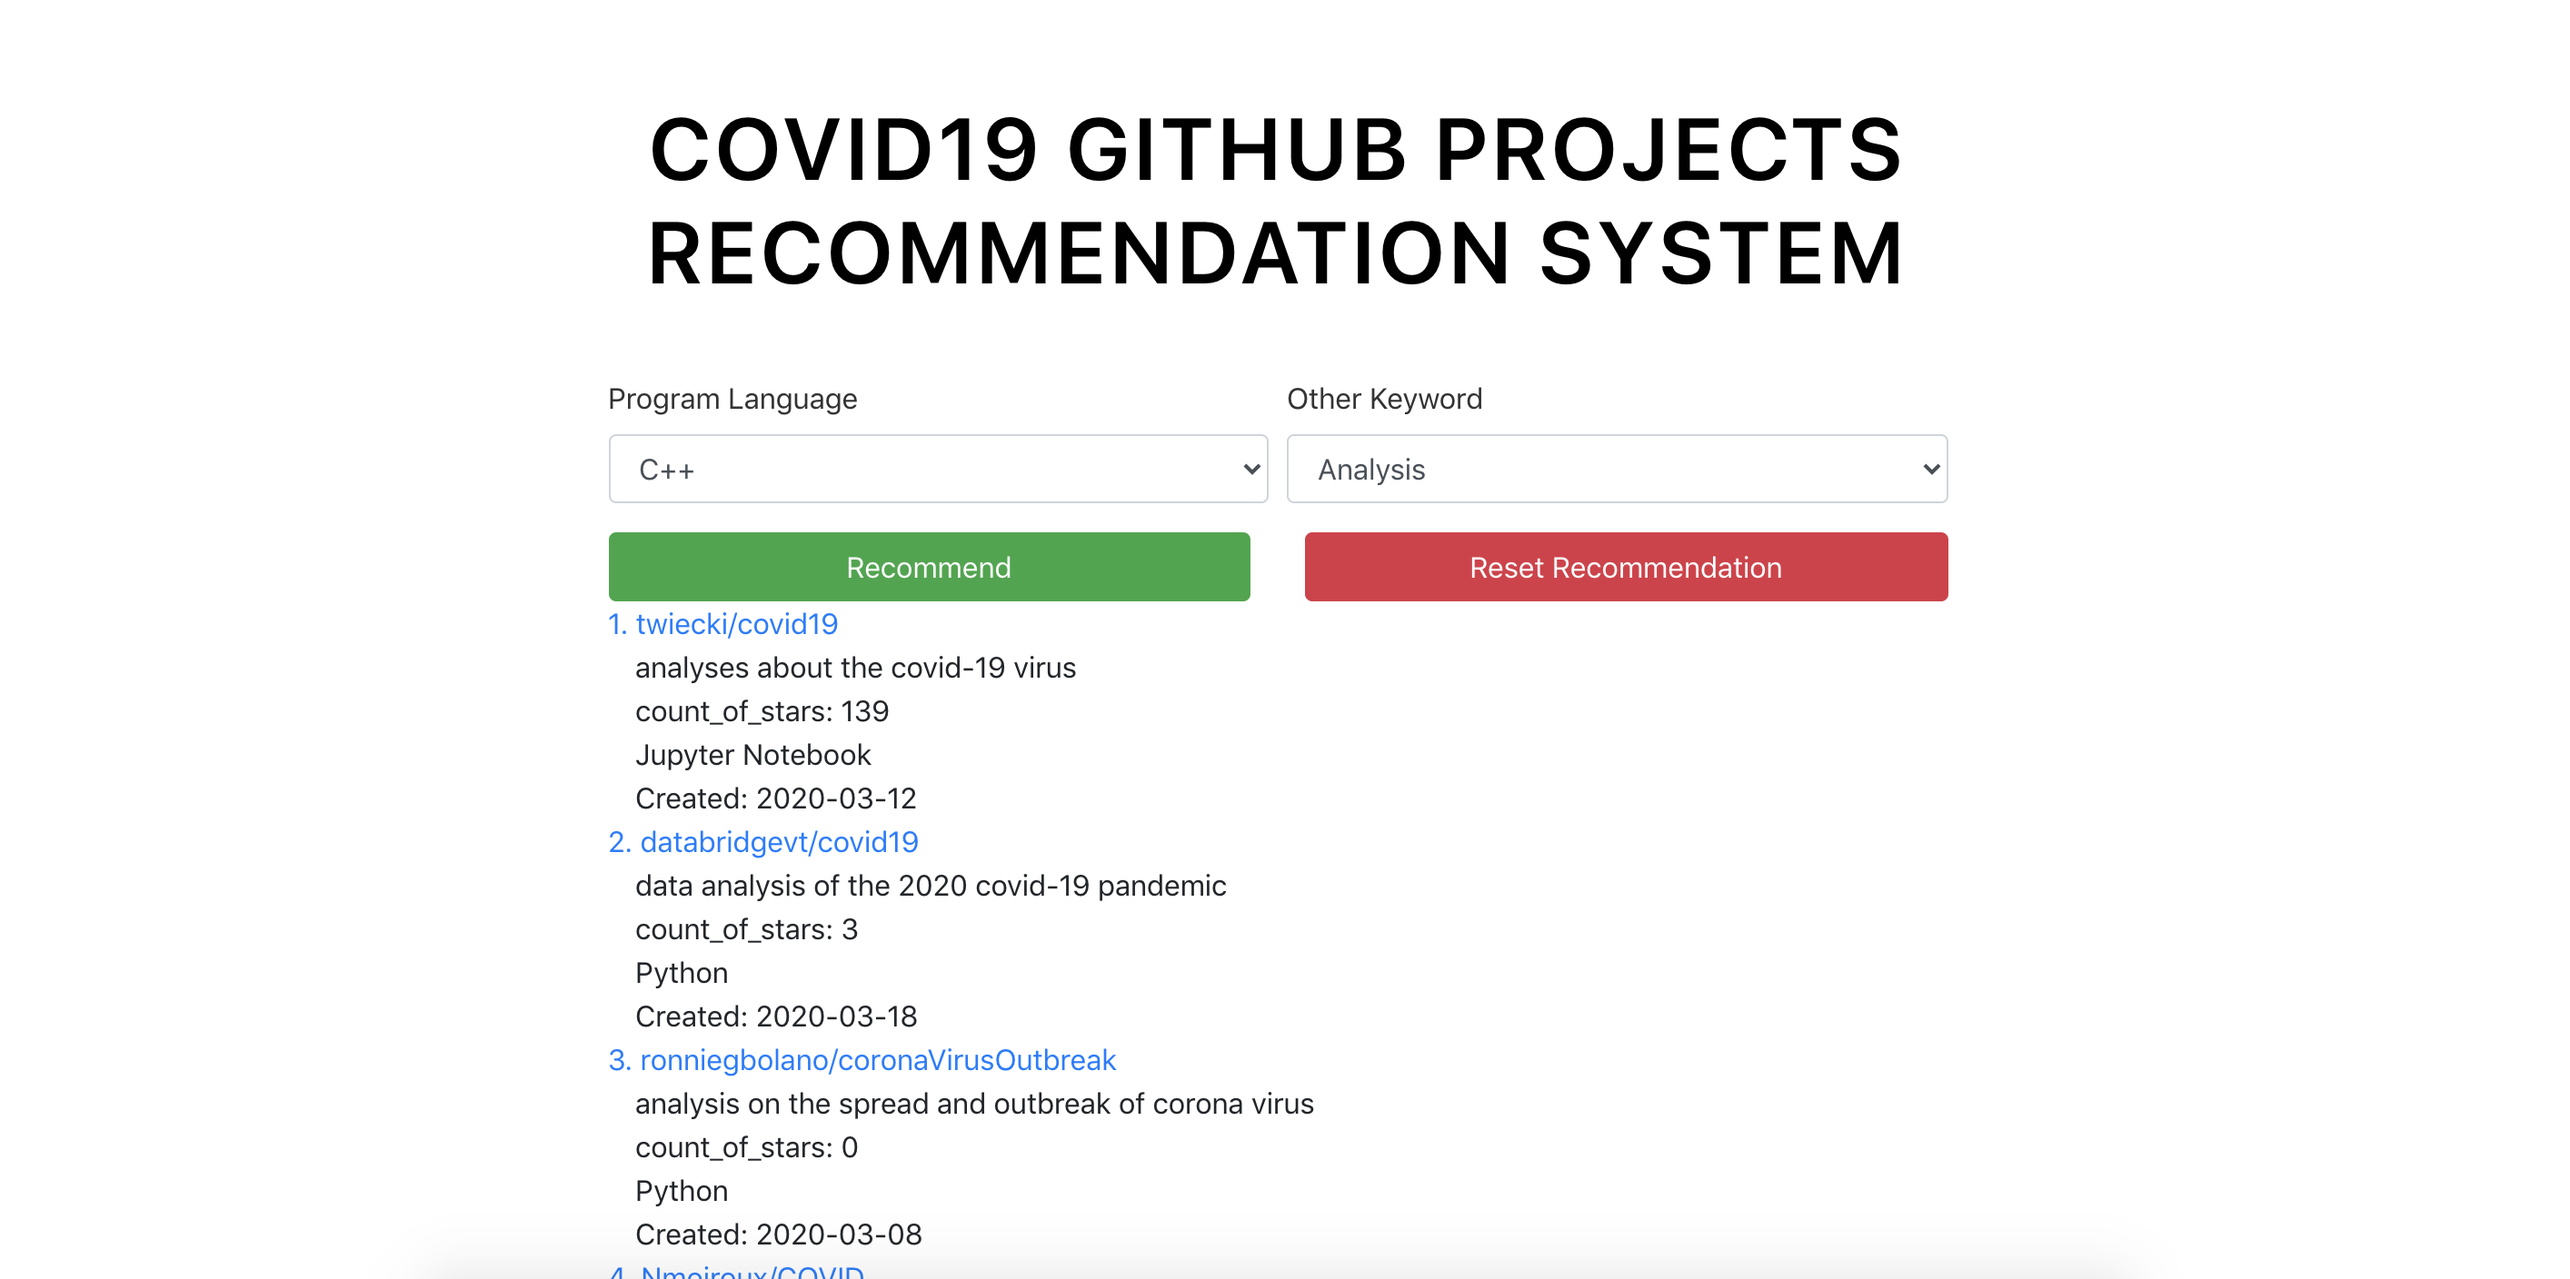
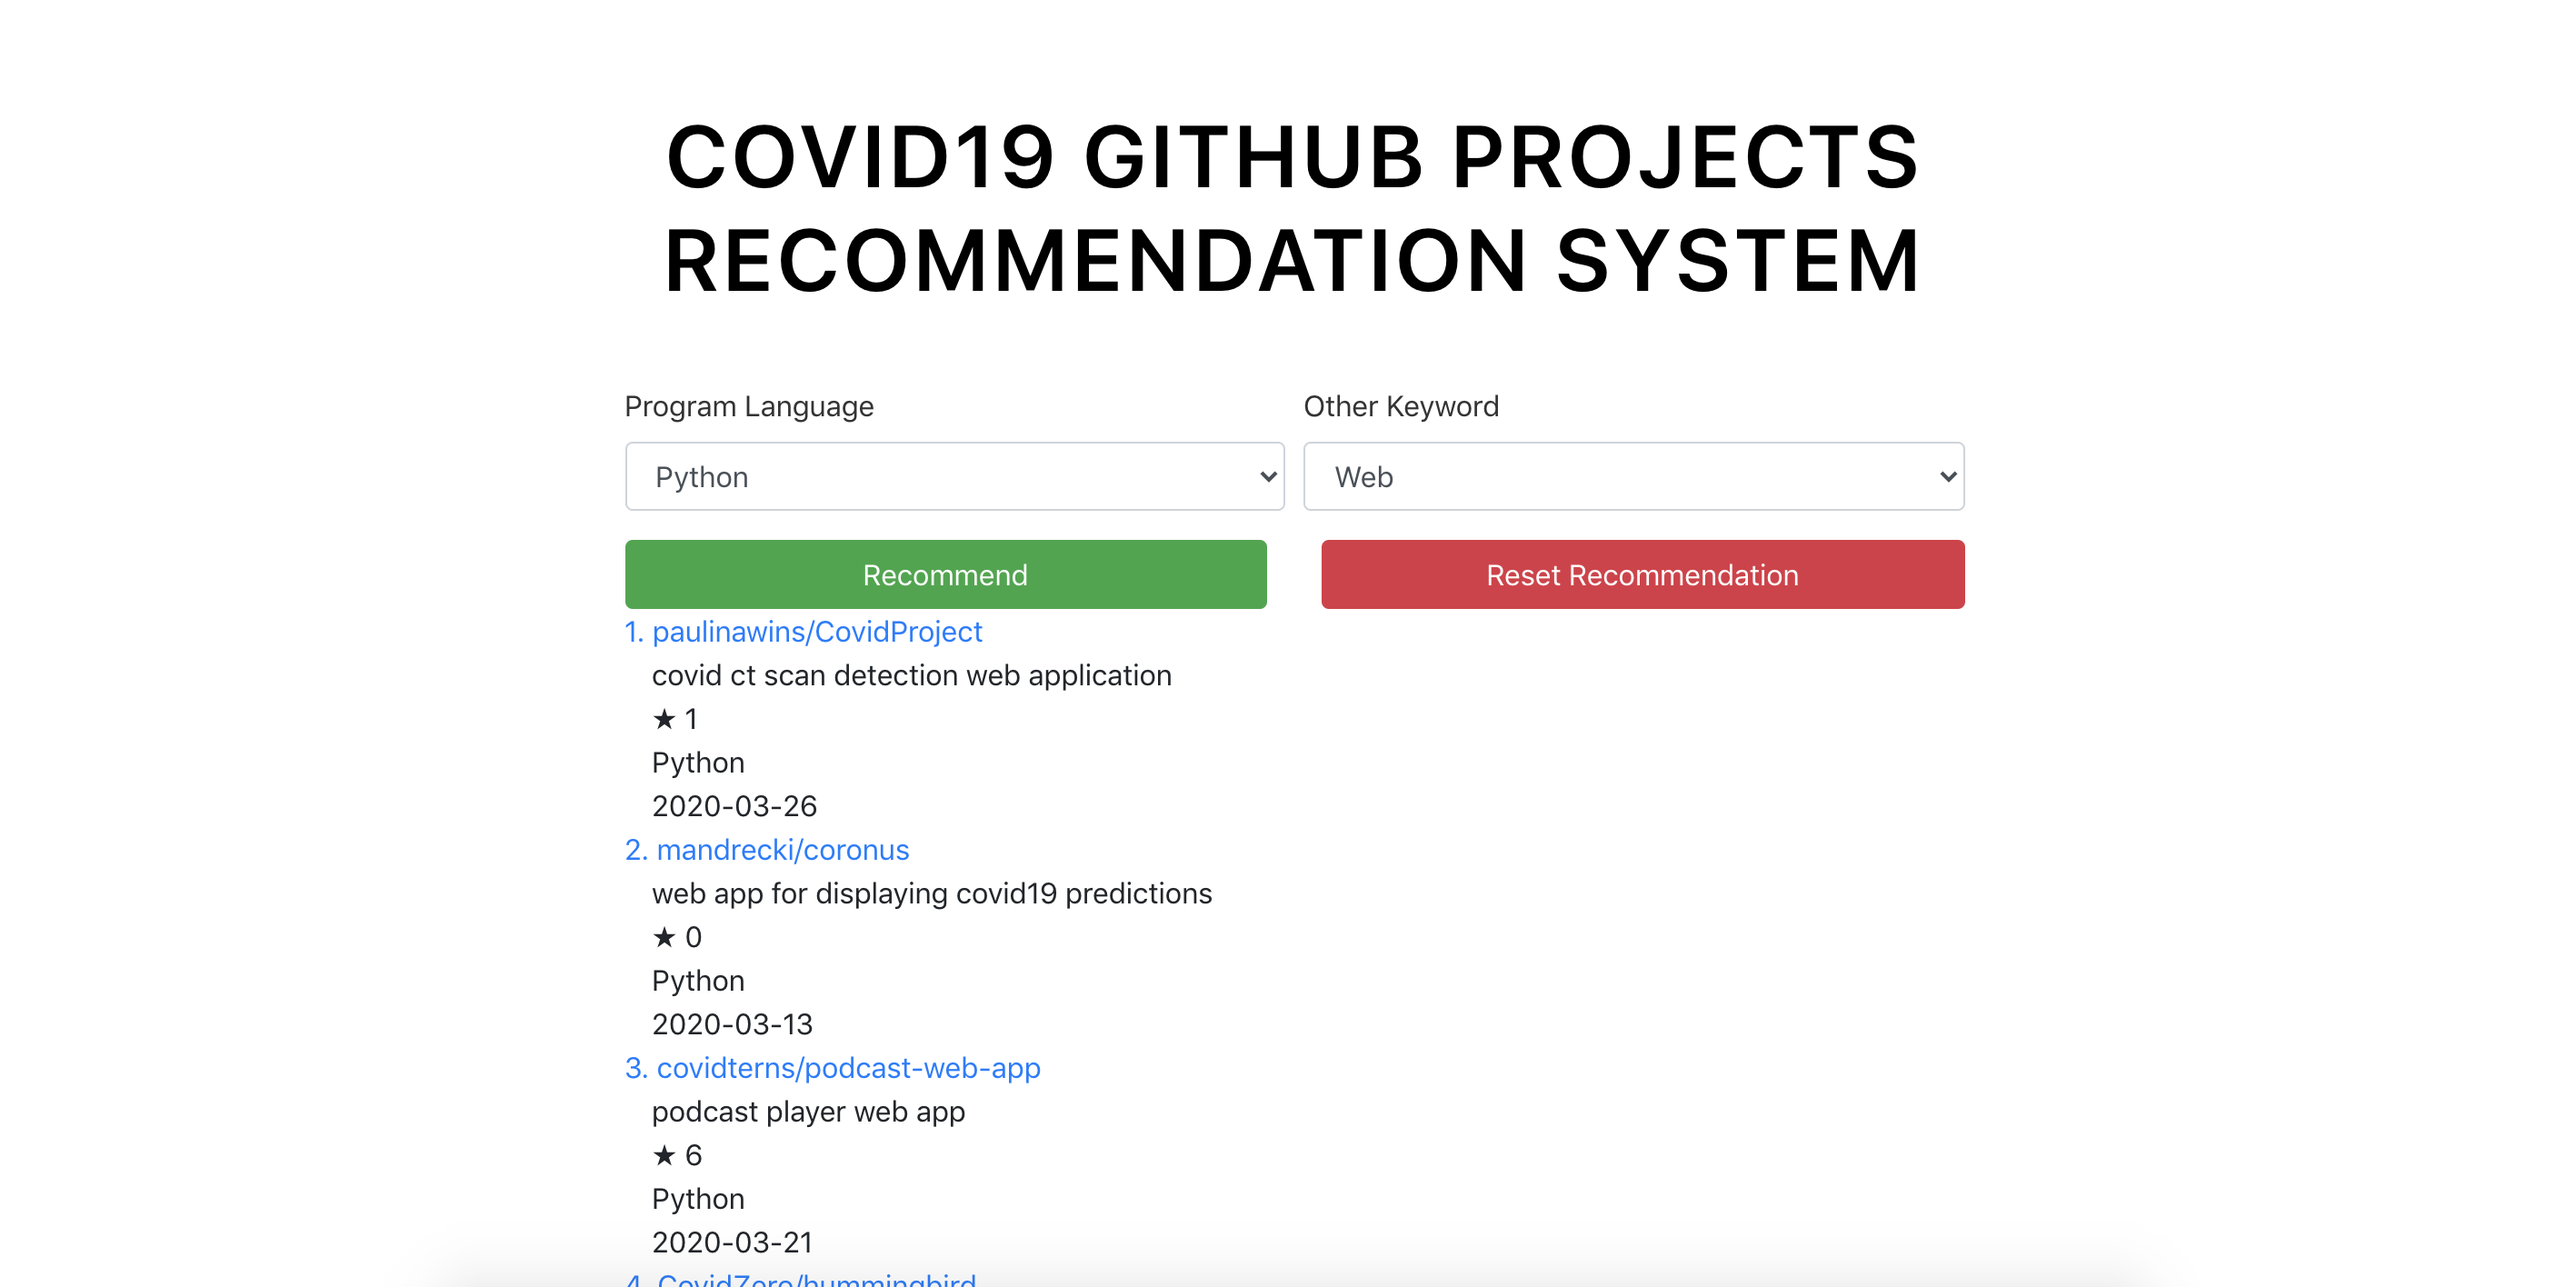
change home picture

Changed region(s): [[0.2178, 0.2812, 0.7779, 1.0], [0.2489, 0.0938, 0.7468, 0.25], [0.7468, 0.3438, 0.7779, 0.375]]

diff --git a/src/App.js b/src/App.js
@@ -114,9 +114,9 @@ class App extends Component {
         <div>
         <a href={recommendations[itemIdx].github_repo_url} >{itemIdx+1}. {recommendations[itemIdx].owner_repo_name}</a>
         <Col>{recommendations[itemIdx].repo_description}</Col> 
-        <Col>count_of_stars: {recommendations[itemIdx].count_of_stars}</Col>
+        <Col><span role="img" aria-label="sheep">&#9733; </span> {recommendations[itemIdx].count_of_stars}</Col>
         <Col>{recommendations[itemIdx].primary_language_name}</Col>
-        <Col>Created: {recommendations[itemIdx].repo_created_day}</Col>
+        <Col>{recommendations[itemIdx].repo_created_day}</Col>
         </div>
         )
     }
